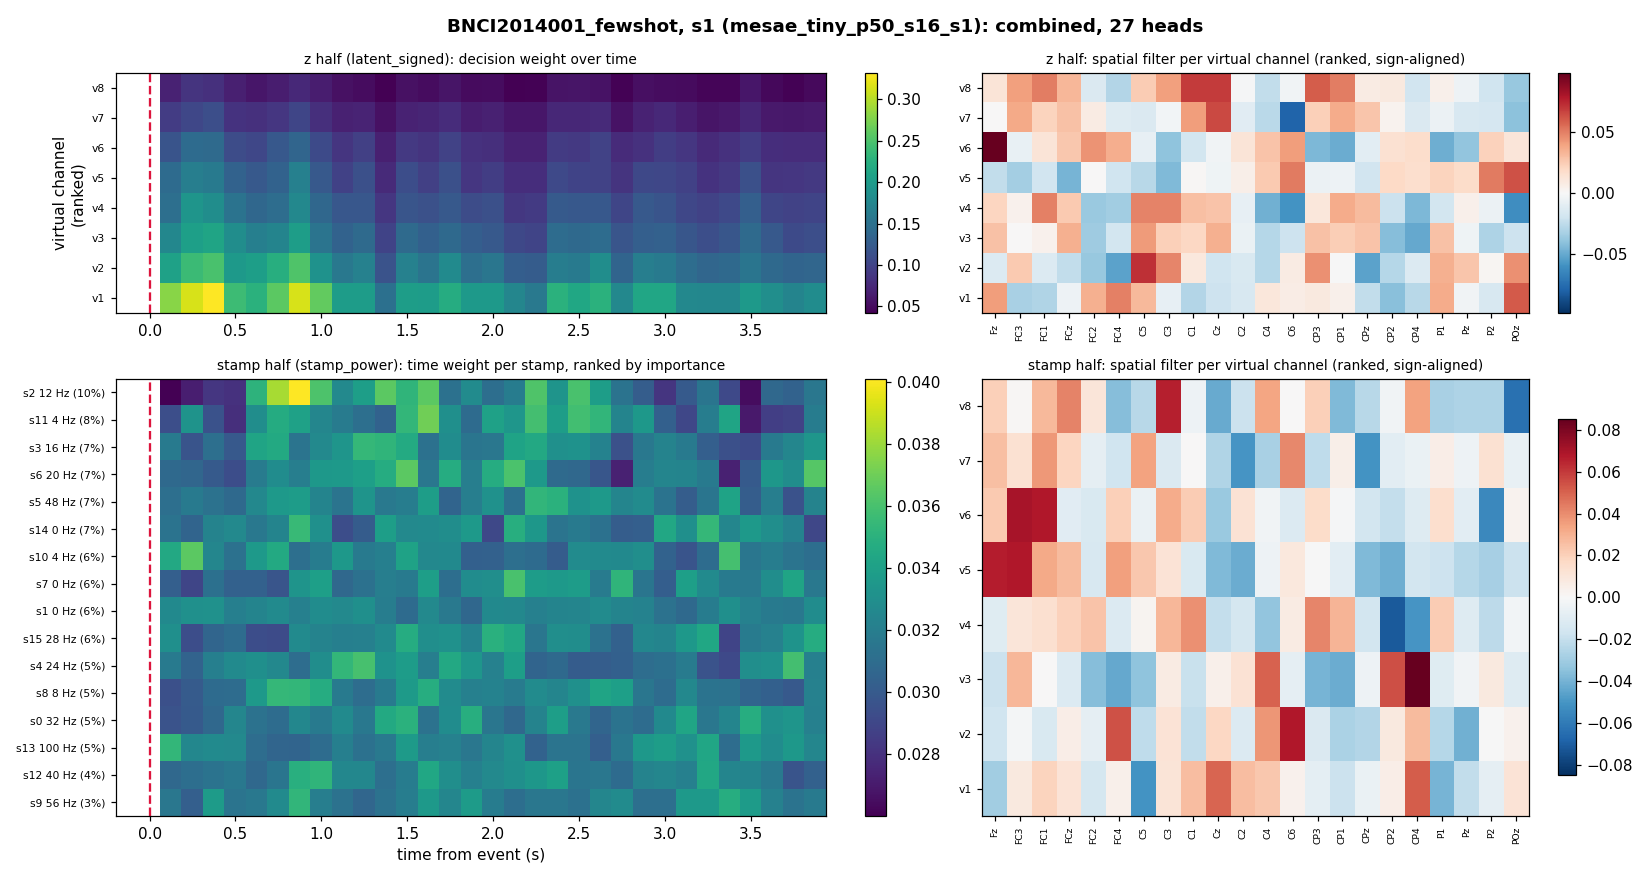
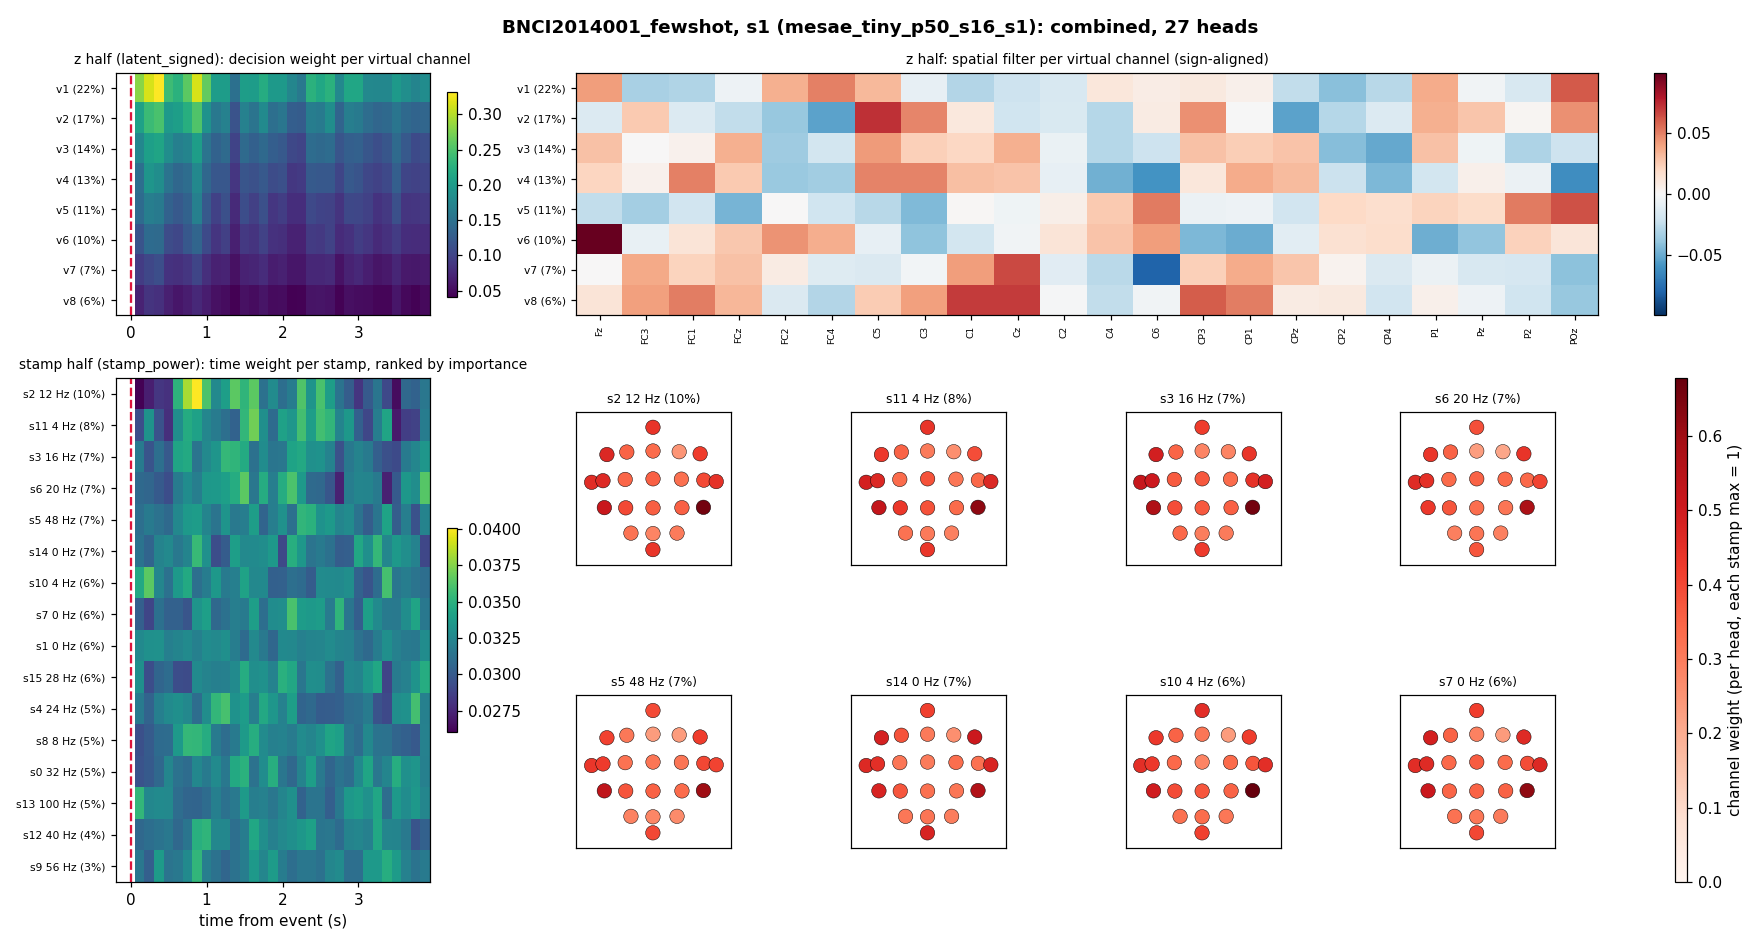
feat(viz): stamp_maps back to per-stamp scalp maps with a shared colour bar; z-half virtual channels ranked top-down with importance share
Claude-Session: https://claude.ai/code/session_011ZRo7FMWpgbtn1N34keF18

diff --git a/tools/viz/probe_plots.py b/tools/viz/probe_plots.py
@@ -41,51 +41,63 @@ def plot_probe_maps(out_path, maps, channel_names, title, event_s=None):
     plt.close(fig)
 
 
-def plot_stamp_maps(out_path, tw, imp, sp, t_axis, stamp_labels, channel_names, title, event_s=None, z_maps=None):
-    """Stamp-power half of a head, laid out like probe_maps. Left: per-stamp time weights (rows = stamps ranked by
-    decision importance, label = stamp, template peak and importance share); right: the entry's spatial filter per
-    virtual channel (ranked, sign-aligned). z_maps: optional (importance [K, N], spatial [K, C]) of the same head's
-    latent_signed entry, drawn as a top row on the same time axis."""
-    tw, imp, sp, t_axis = (np.asarray(v) for v in (tw, imp, sp, t_axis))
+def plot_stamp_maps(out_path, tw, imp, chan, t_axis, stamp_labels, xy, channel_names, title, event_s=None, top=8,
+                    z_maps=None):
+    """Stamp-power half of a head. Left: per-stamp time weights (rows = stamps ranked by importance, label = stamp,
+    template peak and importance share); right: channel map of the `top` most important stamps on the scalp.
+    z_maps: optional (importance [K, N], spatial [K, C]) of the same head's latent_signed entry, drawn as a top row
+    (virtual channel x time, spatial filters) on the same time axis."""
+    tw, imp, chan, t_axis, xy = (np.asarray(v) for v in (tw, imp, chan, t_axis, xy))
     order = np.argsort(-imp)
     share = imp / imp.sum()
-    rows = [('z', z_maps)] if z_maps is not None else []
-    rows.append(('stamp', None))
-    fig, axes = plt.subplots(len(rows), 2, figsize=(15, 2.8 + 5.2 * (len(rows) - 1) if len(rows) > 1 else 5.2),
-                             squeeze=False, gridspec_kw={'width_ratios': [1.3, 1],
-                                                         'height_ratios': [1.1] * (len(rows) - 1) + [2]})
+    ncol = 4
+    z0 = 0 if z_maps is None else 1
+    fig = plt.figure(figsize=(16, 6 + 2.6 * z0))
+    gs = fig.add_gridspec(2 + z0, 2 + ncol, width_ratios=[2.2] + [1] * ncol + [0.08], height_ratios=[1.1] * z0 + [1, 1])
     dt = (t_axis[1] - t_axis[0]) if len(t_axis) > 1 else 1.0
-    ext = [t_axis[0] - dt / 2, t_axis[-1] + dt / 2]
-
-    def spatial(ax_s, m, what):
-        lim = np.abs(m).max() or 1.0
-        im = ax_s.imshow(m, aspect='auto', cmap='RdBu_r', vmin=-lim, vmax=lim, origin='lower')
-        ax_s.set_xticks(range(len(channel_names)), channel_names, rotation=90, fontsize=6)
-        ax_s.set_yticks(range(m.shape[0]), [f'v{k + 1}' for k in range(m.shape[0])], fontsize=7)
-        ax_s.set_title(f'{what}: spatial filter per virtual channel (ranked, sign-aligned)', fontsize=9)
-        fig.colorbar(im, ax=ax_s, fraction=0.03)
-
-    for (ax_t, ax_s), (kind, zm) in zip(axes, rows):
-        if kind == 'z':
-            zi, zs = (np.asarray(v) for v in zm)
-            K = zi.shape[0]
-            im = ax_t.imshow(zi, aspect='auto', cmap='viridis', origin='lower', extent=ext + [-0.5, K - 0.5])
-            ax_t.set_yticks(range(K), [f'v{k + 1}' for k in range(K)], fontsize=7)
-            ax_t.set_ylabel('virtual channel\n(ranked)')
-            ax_t.set_title('z half (latent_signed): decision weight over time', fontsize=9)
-            spatial(ax_s, zs, 'z half')
-        else:
-            im = ax_t.imshow(tw[order], aspect='auto', cmap='viridis', origin='upper',
-                             extent=ext + [len(order) - 0.5, -0.5])
-            ax_t.set_yticks(range(len(order)), [f'{stamp_labels[s]} ({share[s]:.0%})' for s in order], fontsize=7)
-            ax_t.set_title('stamp half (stamp_power): time weight per stamp, ranked by importance', fontsize=9)
-            spatial(ax_s, sp, 'stamp half')
+    ax = fig.add_subplot(gs[z0:, 0])
+    if z_maps is not None:
+        zi, zs = (np.asarray(v) for v in z_maps)
+        K = zi.shape[0]
+        az = fig.add_subplot(gs[0, 0], sharex=ax)
+        zshare = zi.sum(1) / zi.sum()                            # rows come ranked (v1 = most important)
+        vlab = [f'v{k + 1} ({zshare[k]:.0%})' for k in range(K)]
+        imz = az.imshow(zi, aspect='auto', cmap='viridis', origin='upper',
+                        extent=[t_axis[0] - dt / 2, t_axis[-1] + dt / 2, K - 0.5, -0.5])
+        az.set_yticks(range(K), vlab, fontsize=7)
+        az.set_title('z half (latent_signed): decision weight per virtual channel', fontsize=9)
         if event_s is not None:
-            ax_t.axvline(0.0, color='crimson', ls='--', lw=1.5)
-        fig.colorbar(im, ax=ax_t, fraction=0.03)
-    for ax_t in axes[1:, 0]:
-        ax_t.sharex(axes[0, 0])
-    axes[-1, 0].set_xlabel('time from event (s)' if event_s is not None else 'time in window (s)')
+            az.axvline(0.0, color='crimson', ls='--', lw=1.5)
+        fig.colorbar(imz, ax=az, fraction=0.03)
+        asp = fig.add_subplot(gs[0, 1:])
+        lim = np.abs(zs).max() or 1.0
+        ims = asp.imshow(zs, aspect='auto', cmap='RdBu_r', vmin=-lim, vmax=lim, origin='upper')
+        asp.set_xticks(range(len(channel_names)), channel_names, rotation=90, fontsize=6)
+        asp.set_yticks(range(K), vlab, fontsize=7)
+        asp.set_title('z half: spatial filter per virtual channel (sign-aligned)', fontsize=9)
+        fig.colorbar(ims, ax=asp, fraction=0.03)
+    im = ax.imshow(tw[order], aspect='auto', cmap='viridis', origin='upper',
+                   extent=[t_axis[0] - dt / 2, t_axis[-1] + dt / 2, len(order) - 0.5, -0.5])
+    ax.set_yticks(range(len(order)), [f'{stamp_labels[s]} ({share[s]:.0%})' for s in order], fontsize=7)
+    if event_s is not None:
+        ax.axvline(0.0, color='crimson', ls='--', lw=1.5)
+    ax.set_xlabel('time from event (s)' if event_s is not None else 'time in window (s)')
+    ax.set_title('stamp half (stamp_power): time weight per stamp, ranked by importance', fontsize=9)
+    fig.colorbar(im, ax=ax, fraction=0.03)
+    shown = order[:min(top, 2 * ncol)]
+    vmax = max(float(chan[shown].max()), 1e-12)                  # one colour scale for every scalp map
+    for i, s in enumerate(shown):
+        a = fig.add_subplot(gs[z0 + i // ncol, 1 + i % ncol])
+        sc = a.scatter(xy[:, 0], xy[:, 1], c=chan[s], cmap='Reds', vmin=0, vmax=vmax, s=90,
+                       edgecolors='k', linewidths=0.3)
+        if len(channel_names) <= 8:
+            for (x, y), n in zip(xy, channel_names):
+                a.annotate(n, (x, y), fontsize=6, ha='center', va='bottom', xytext=(0, 5), textcoords='offset points')
+        a.set_aspect('equal'); a.set_xticks([]); a.set_yticks([])
+        pad = 0.02
+        a.set_xlim(xy[:, 0].min() - pad, xy[:, 0].max() + pad); a.set_ylim(xy[:, 1].min() - pad, xy[:, 1].max() + pad)
+        a.set_title(f'{stamp_labels[s]} ({share[s]:.0%})', fontsize=8)
+    fig.colorbar(sc, cax=fig.add_subplot(gs[z0:, -1]), label='channel weight (per head, each stamp max = 1)')
     fig.suptitle(title, fontweight='bold')
     fig.tight_layout()
     fig.savefig(out_path, dpi=110)

diff --git a/tools/panels/panel_stamp_maps.py b/tools/panels/panel_stamp_maps.py
@@ -1,7 +1,7 @@
 """stamp_maps: where a head with a stamp_power entry reads from, per cell and group (a latent_signed entry of the
 same head, if any, is drawn on top: virtual channel x time and spatial filters, as probe_maps): each stamp's learned time weights
-(stamps ranked by decision importance, labelled with their template's peak frequency) and the
-stamp_power spatial filter per virtual channel (ranked, sign-aligned; tools/analysis/probe_maps.py), over every fold and
+(stamps ranked by decision importance, labelled with their template's peak frequency) and, for the most important
+stamps, which electrodes' power the decision uses (tools/analysis/probe_maps.py stamp_head_maps), over every fold and
 finetune seed of the cell -> stamp_maps_<cell>_<group>.png. Run it with --head <a label whose head has stamp_power>,
 e.g. combined or cw_stamp. One figure per group: stamps are each backbone's own dictionary, not comparable across."""
 import glob
@@ -13,6 +13,7 @@ import numpy as np
 import torch
 
 from IO.dataset import resolve_canonical_channels
+from IO.loader import get_standard_coords
 from model.factory import build_from_checkpoint
 from tools.analysis.probe_maps import summarise, summarise_stamps
 from tools.panels.panel_probe_maps import _time_axis
@@ -41,7 +42,7 @@ def run(ctx):
             if not heads:
                 continue
             try:
-                tw, imp, sp, n = summarise_stamps(heads)
+                tw, imp, chan, n = summarise_stamps(heads)
             except KeyError:
                 continue                                    # no stamp_power entry in this head
             try:
@@ -54,9 +55,10 @@ def run(ctx):
             h0 = torch.load(heads[0], map_location='cpu', weights_only=False)
             chans = resolve_canonical_channels(cfg['preprocess_params']['canonical_channels'])
             names = [chans[i] for i in h0['head_config']['channel_idx']]
+            xy = np.array([get_standard_coords(c)[:2] for c in names])
             labels = _stamp_labels(h0['backbone_checkpoint'], float(cfg['preprocess_params']['sample_freq']))
             out = os.path.join(ctx.out_dir, f'stamp_maps_{cell}_{g}.png')
-            plot_stamp_maps(out, tw.numpy(), imp.numpy(), sp.numpy(), t, labels, names,
+            plot_stamp_maps(out, tw.numpy(), imp.numpy(), chan.numpy(), t, labels, xy, names,
                             f'{cell}, {g} ({bb}): {ctx.head}, {n} heads{note}',
                             event_s=None if note.startswith(' (event line omitted') else 0.0, z_maps=z_maps)
             print(f"  -> {out}")

diff --git a/tools/analysis/probe_maps.py b/tools/analysis/probe_maps.py
@@ -76,15 +76,9 @@ def stamp_head_maps(head_pth, entry='stamp_power'):
 
 def summarise_stamps(head_paths, entry='stamp_power'):
     """Mean over heads of one backbone (stamps are that backbone's own dictionary): time weights [S, N], per-stamp
-    importance [S] (summed over virtual channels), and the spatial filter [K, C] with virtual channels ranked by
-    importance (summed over stamps) and sign-aligned to the first head, as summarise() does for latent_signed."""
-    tws, imps, sps = [], [], []
+    importance [S] (summed over virtual channels), channel map [S, C] (each head's rows scaled to max 1 first)."""
+    tws, imps, chans = [], [], []
     for h in head_paths:
-        tw, imp, _ = stamp_head_maps(h, entry)
-        sp = torch.load(h, map_location='cpu', weights_only=False)['model_state_dict'][f'spatials.{entry}.weight'].float()
-        sp = sp[imp.sum(1).argsort(descending=True)]
-        if sps:
-            sign = torch.sign((sp * sps[0]).sum(1, keepdim=True))
-            sp = sp * torch.where(sign == 0, torch.ones_like(sign), sign)
-        tws.append(tw); imps.append(imp.sum(0)); sps.append(sp)
-    return torch.stack(tws).mean(0), torch.stack(imps).mean(0), torch.stack(sps).mean(0), len(tws)
+        tw, imp, chan = stamp_head_maps(h, entry)
+        tws.append(tw); imps.append(imp.sum(0)); chans.append(chan / chan.amax(1, keepdim=True).clamp(min=1e-12))
+    return torch.stack(tws).mean(0), torch.stack(imps).mean(0), torch.stack(chans).mean(0), len(tws)

diff --git a/docs/reports/2026-09-29-combined-head.md b/docs/reports/2026-09-29-combined-head.md
@@ -110,7 +110,7 @@ learned from the same few trials. Shelved, worth revisiting (e.g. filters fit in
 instead of by gradient); the option stays in the code (default off). Runs archived in
 `output/archive/2026-09-30_per_stamp_spatial/`.
 
-Where the combined head reads from (tiny s1, all folds and finetune seeds per cell): `2026-09-29-combined-head/head_maps_tiny_s1/stamp_maps_<cell>_s1.png` -- top row the z half (virtual channel x time, spatial filters), bottom the stamp half (per-stamp time weights, spatial filters). On MI the stamp half reads 12 / 24 Hz power over lateral central sites 0.5-4 s after the cue; the z half reads 0.1-0.5 s, on BNCI2014001 from parieto-occipital sites (likely the visual cue response, caveat 7).
+Where the combined head reads from (tiny s1, all folds and finetune seeds per cell): `2026-09-29-combined-head/head_maps_tiny_s1/stamp_maps_<cell>_s1.png` -- top row the z half (virtual channel x time, spatial filters), bottom the stamp half (per-stamp time weights, scalp map of the top stamps); virtual channels and stamps ranked by importance. On MI the stamp half reads 12 / 24 Hz power over lateral central sites 0.5-4 s after the cue; the z half reads 0.1-0.5 s, on BNCI2014001 from parieto-occipital sites (likely the visual cue response, caveat 7).
 
 Cohen's kappa (small corpus, same runs; `kappa_small_table.md`, `kappa_small.png`): loso combined 0.582 / 0.378 / 0.317
 vs z probe 0.503 / 0.331 / 0.299 and stamp head 0.497 / 0.231 / 0.146 on BNCI2014004 / 001 / 008 -- the same ranking as
